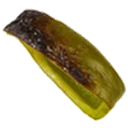
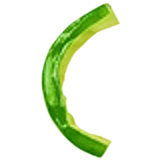
Pizza builder: fresh green pepper rings and pineapple tidbits
The roasted pepper strips and caramelized pineapple chunks read as blobs at pie size. Both are replaced with fresh, recognizable pieces.

Claude-Session: https://claude.ai/code/session_01SD9EajBXtQV1MLBbZTsyoU

diff --git a/src/pizza/PizzaArt.tsx b/src/pizza/PizzaArt.tsx
@@ -342,7 +342,7 @@ export function ToppingSwatch({ t, size = 28 }: { t: Topping; size?: number }) {
 
 // Half-width of each topping's photo, in pie units (the pie is 200 across).
 const PHOTO_SIZE: Record<string, number> = {
-  pepperoni: 9, cupchar: 6.5, sausage: 6, bacon: 7.5, ham: 6, chicken: 6.5, meatball: 7.5, mushroom: 7.5, onion: 8, greenpepper: 7.5,
+  pepperoni: 9, cupchar: 6.5, sausage: 6, bacon: 7.5, ham: 6, chicken: 6.5, meatball: 7.5, mushroom: 7.5, onion: 8, greenpepper: 9,
   olive: 4.5, jalapeno: 5.5, banana: 5.5, pineapple: 6, tomato: 8, spinach: 8, basil: 7.5, garlic: 4, freshmozz: 8.5, ricotta: 7,
 };
 
